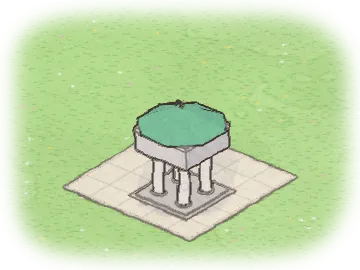
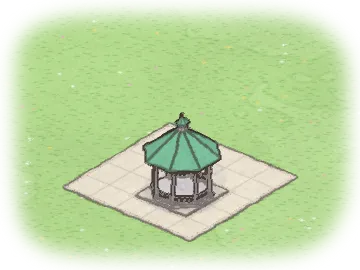
Bandstand: guide picture, catalogue entry R-M11 and the monuments handoff describe the pavilion; damage gallery renamed bandstand-ruins

Changed region(s): [[0.3361, 0.3556, 0.6722, 0.8296]]

diff --git a/scenarios/rules/bandstand-ruins.scenario.ts b/scenarios/rules/bandstand-ruins.scenario.ts
@@ -5,13 +5,13 @@
 // columns) break by their own damage. A second row has only the roof hit,
 // and a third only the pillars.
 //
-//   npm run shots -- R-M11.bandstand-ruins
+//   npm run shots -- bandstand-ruins
 
 import { scenario } from '@/scenario';
 import { ruinBox, STATES } from '../mischief/states';
 
 export default scenario({
-  name: 'R-M11.bandstand-ruins',
+  name: 'bandstand-ruins',
   seed: 1911,
   about: 'A bandstand in every damage state; then with only its roof damaged; then only its pillars.',
   terrain(t) {

diff --git a/src/gen/marble/pavilion.test.ts b/src/gen/marble/pavilion.test.ts
@@ -84,7 +84,6 @@ describe('the bandstand pavilion (R-M11)', () => {
     const t = bandstand(SQUARE);
     const roof = triangleCount(t.drawAt(10, 3, 10));
     const columns = SQUARE.reduce((n, [x, z]) => n + triangleCount(t.drawAt(x, 1, z)), 0);
-    console.log(`pavilion: roof ${roof}, columns ${columns}, tall ${triangleCount(bandstand(SQUARE, 4).drawAt(10, 5, 10))}`);
     expect(roof + columns).toBeLessThan(3000);
   });
 

diff --git a/docs/superpowers/specs/2026-11-19-little-city-rule-catalogue.md b/docs/superpowers/specs/2026-11-19-little-city-rule-catalogue.md
@@ -200,10 +200,21 @@ type and which later rules apply.
 - **R-M11 · 3 · Bandstand** (discovery 1, RC-14) — R-M01's shape (marble on
   4+ placed pillar shafts of 2+) with 4 cells or fewer, its pillars standing
   on the ground (not up on a podium), on a plaza or garden region of 9+
-  cells → an eight-sided tented roof
-  with a gilt finial over the slab, stylobates as a temple's, no
-  pediments. Not: a temple on a podium; a slab of 5+ cells; a small temple
-  on bare grass (it stays the temple it was built as). Priority 5995.
+  cells (so exactly four cells at one level, one shaft under each: a 2 × 2,
+  a 1 × 4, an L, a T or an S) → a park pavilion: the marble becomes a
+  stepped many-sided plinth, a light entablature and a tented roof in facets
+  with a roll on each hip; the pillars become a ring of slender columns with
+  bases and capitals (the rule claims each pillar's role and pins a
+  `pavilion-bay` feature on it: each draws the columns in its own cell); a
+  low balustrade between them, open in the bay on the side tagged
+  bandstand:<side> (toward a path within 4 cells, else the most paving or
+  lawn). A 2 × 2 is a regular octagon of eight columns under a lantern with
+  lit windows; a one-wide plan has half-octagon ends and a hipped roof with
+  a finial at each ridge end. Pillars 3+ tall: a higher plinth, longer
+  columns and a second roof tier over a glazed clerestory drum. No
+  pediments, no stylobates. Not: a temple on a podium; a slab of 5+ cells; a
+  small temple on bare grass (it stays the temple it was built as). Priority
+  5995.
 - **R-M12 · 3 · Stoa** (discovery 1, RC-13) — R-M01's shape with 7+ cells, a
   rectangular top at one level 3+ times as long as wide, and plaza at the
   foot of one long side's pillars or 1–2 cells out from it (tag

diff --git a/docs/swarm/handoff/monuments.md b/docs/swarm/handoff/monuments.md
@@ -16,6 +16,23 @@ Branch `swarm/monuments`. Brief: `docs/swarm/art-review-1.md`, section "Monument
   (`timberLegs` in `src/gen/support/supports.gen.ts`).
 - M7 clock dials use `PATTERN.glow`; keep windows use `glass`.
 
+## Bandstand as a pavilion (2026-11-20, branch `swarm/pavilion`)
+- R-M11 is drawn as a park pavilion by two generators sharing one layout
+  (`src/gen/marble/pavilion.ts`): the marble draws plinth, rail, entablature,
+  roof, drum and lantern; each pillar draws the columns standing in its own cell.
+  The rule claims each pillar's role slot and pins a `pavilion-bay` feature on it
+  carrying the footprint (mask, x0, z0) and the ground under it, because a pillar
+  may only read its own hash. Change the layout in `pavilionLayout` only: both
+  sides call it, and they must agree.
+- 2 × 2: regular octagon. One-wide plans (1 × 4, L, T, S): half-octagon ends,
+  equal-pitch hipped roof built as a per-cell fan (`roofFan`). Stack 3+: raised
+  plinth, columns +0.3 per storey (capped), a glazed clerestory drum and an
+  upper tier. The open bay faces `bandstand:<side>` (path, else plaza).
+- Fragile: a pillar under a bandstand with no column in its cell would draw
+  nothing (no footprint does that today; `pavilion.test.ts` checks every one).
+  Damage is per structure: pillars topple their own columns, the marble loses its
+  roof; with only the pillars wrecked the roof still stands over them (as a temple's).
+
 ## Not done
 - Would-be-nice list: temple triglyphs and tympanum ornament, more seeded variety
   on towers, pillar entasis on generated pillars. Skipped on instruction.
